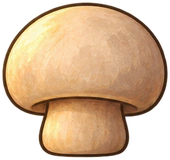
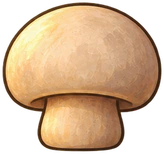
Scene 1: mushrooms at 154 px, at most 2x their largest display (review 02 fix round 1, item 3)
The largest displayed mushroom is 77.1 CSS px (2560x1440, collect pop), so
160 px was 2.08x. Regenerated with npm run assets: mushrooms 106,410 ->
100,982 B; mushrooms + logo 160,118 B.

diff --git a/site/qa/REPORT.md b/site/qa/REPORT.md
@@ -256,7 +256,7 @@ intro plays). "Before" is `site/scene-1` with `main` merged; "after" is this bra
 |---|---|---|---|
 | ✅ | **1. WebKit freeze at the end of the intro.** Cause: when the intro ended, the brush canvas was removed and GSAP cleared the inline styles on seven elements in the same frame, so WebKit repainted the whole plate at once. It was the one frame over 50 ms that kept coming back, always at 3.24 s. During the wash, the `<img>` fading in under the strokes also repainted the plate on every frame. Fix: the wash is drawn into the brush's own canvas. The paint is the room's own pixels, so this gives exactly the same image. The canvas then stays on as the room: nothing is swapped and nothing is cleared when the intro ends. The `<img>` takes over only if the plate is resized, when everything repaints anyway. | Longest frame from the wash to 1 s after the intro, iPhone 13 profile, 16 runs each: **before 39–62 ms**, a frame over 50 ms in 4 of 16 runs (60, 62, 51, 53 ms), always at the hand-over. **After 36–47 ms, 0 frames over 50 ms in all 16 runs.** The worst frame over the whole intro is the same frame in every run. The hammer loop afterwards: worst frame 22–31 ms before, 21–33 ms after. Desktop 1280 × 760: 27–40 ms before, 28–30 ms after. | `review-02/01-frames-raw.txt` (every run), `review-02/01-intro-before-after.jpg` |
 | ✅ | **2. Room image loads sooner.** A `<link rel="preload" as="image" fetchpriority="high">` in the page head starts the room download while the script is still loading. `loadRoom()` now requests it as an `<img>`, the only kind of request WebKit matches to that preload (a `fetch()` downloaded the 1.26 MB room twice), and makes the brush's ImageBitmap from it. It is still downloaded once, in WebKit and in Chromium. The reveal is the same code. | Room request starts (ms after navigation, 3 runs each): **45–51 → 4–5** on localhost, and **504–509 → 309–312** with 150 ms added to every request. Brush starts: **1070–1082 → 921–964 ms** with the added 150 ms. On localhost there is no change (612–621 before, 614–683 after; 597–630 → 614–666 over 6 more runs): there the brush waits for the counter's hidden unlock rehearsal (about 0.45 s), not for the room. | `review-02/02-room-load-timeline.png` (median runs), `review-02/02-room-load-raw.jsonl` |
-| ✅ | **3. Smaller mushrooms and logo.** `npm run assets` sizes every mushroom to 160 px tall: the tallest spot is 42 plate px, which on a 2560 px screen is 64 CSS px, popped to 1.2× when found, so 77 CSS px at most, and 160 px is 2× that. The logo is capped at 614 px wide (2× its 307 CSS px at 2560 px) and never enlarged, so the 564 px temporary logo keeps its size. Both are now WebP q95 with exact alpha: at 3× zoom, on the floor and on the dark band, they show no edges or banding next to lossless. | Mushrooms 1–9: 94,974 / 60,358 / 117,028 / 77,608 / 27,048 / 116,000 / 85,738 / 87,176 / 110,286 B → 12,584 / 8,702 / 14,600 / 12,994 / 5,116 / 14,390 / 11,932 / 11,692 / 14,400 B (776,216 → 106,410 B). Logo 164,076 → 59,136 B. **Total 940,292 → 165,546 B (−775 KB, −82 %).** All scene images: 5.17 → 4.18 MB. The audit guessed 0.9–1.3 MB of savings; the real figure is lower because these files were 0.94 MB in total and the logo could not be resized. | `review-02/03-sprites-before-after.jpg`, `review-02/03-sizes-before.txt`, `review-02/03-sizes-after.txt` |
+| ✅ | **3. Smaller mushrooms and logo.** `npm run assets` sizes every mushroom to 154 px tall: the tallest spot is 42 plate px, and at 2560 × 1440 the collect pop (1.2×) shows it at 77.1 CSS px at most, so 154 px is 2 × 77.1 rounded down (fix round 1: it was 160 px, 2.08×, over the 2× limit). The logo is capped at 614 px wide (2× its 307 CSS px at 2560 px) and never enlarged, so the 564 px temporary logo keeps its size. Both are now WebP q95 with exact alpha: at 3× zoom, on the floor and on the dark band, they show no edges or banding next to lossless. | Mushrooms 1–9: 94,974 / 60,358 / 117,028 / 77,608 / 27,048 / 116,000 / 85,738 / 87,176 / 110,286 B → 11,678 / 8,368 / 13,908 / 12,066 / 4,958 / 13,740 / 11,222 / 11,134 / 13,908 B (776,216 → 100,982 B). Logo 164,076 → 59,136 B. **Total 940,292 → 160,118 B (−780 KB, −83 %).** All scene images: 5.17 → 4.18 MB. The audit guessed 0.9–1.3 MB of savings; the real figure is lower because these files were 0.94 MB in total and the logo could not be resized. | `review-02/03-sprites-before-after.jpg`, `review-02/03-sizes-before.txt`, `review-02/03-sizes-after.txt` |
 | ✅ | **4. Page metadata.** Meta description (placeholder, marked `TODO(copy)`), theme colour (kept, `#1d120b`), Open Graph type, title, description and image. `robots.txt` is `User-agent: *` / `Disallow: /`. The image is a 1200 × 630 PNG of the logo on the page colour, made by `npm run assets`, because not every link-preview scraper reads WebP. | – | `review-02/04-metadata.png` (read back from the production build) |
 
 Notes:
